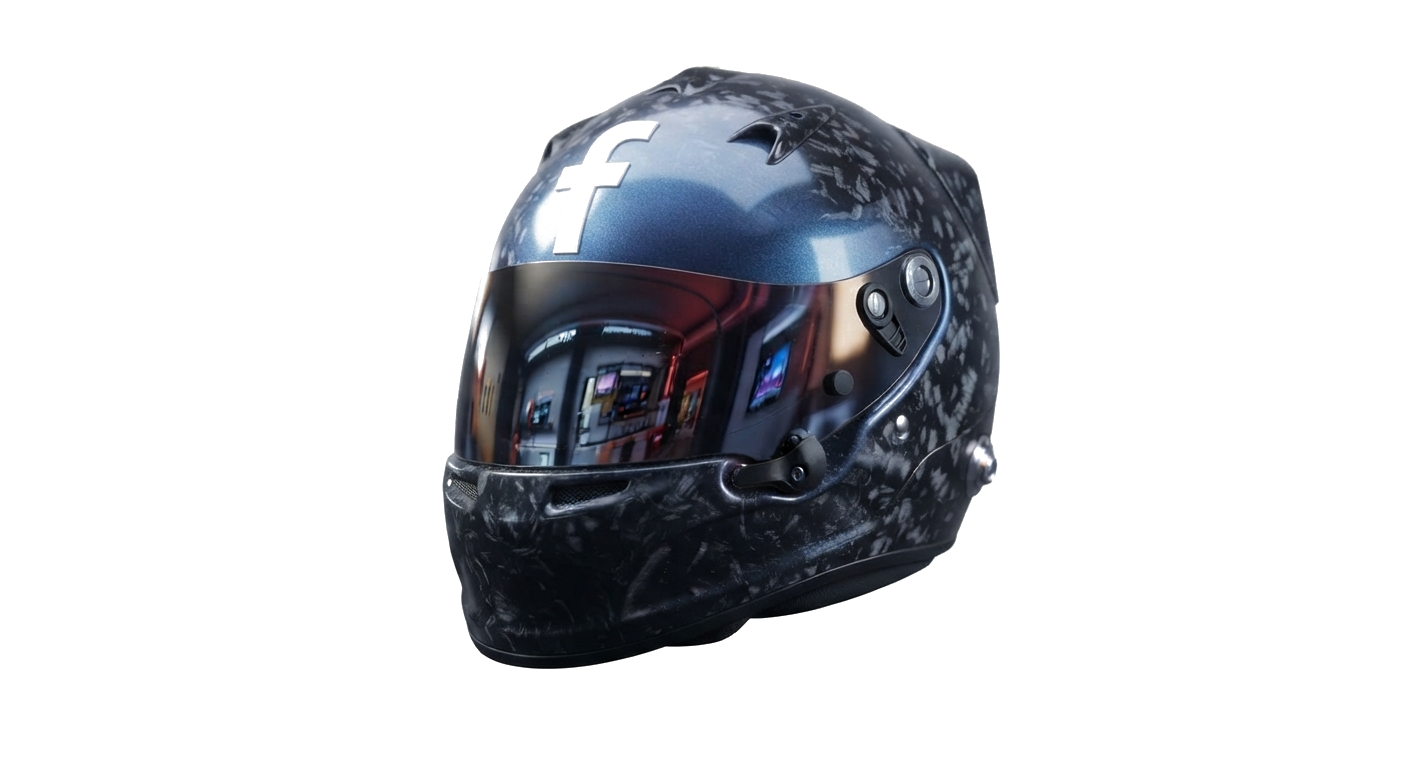
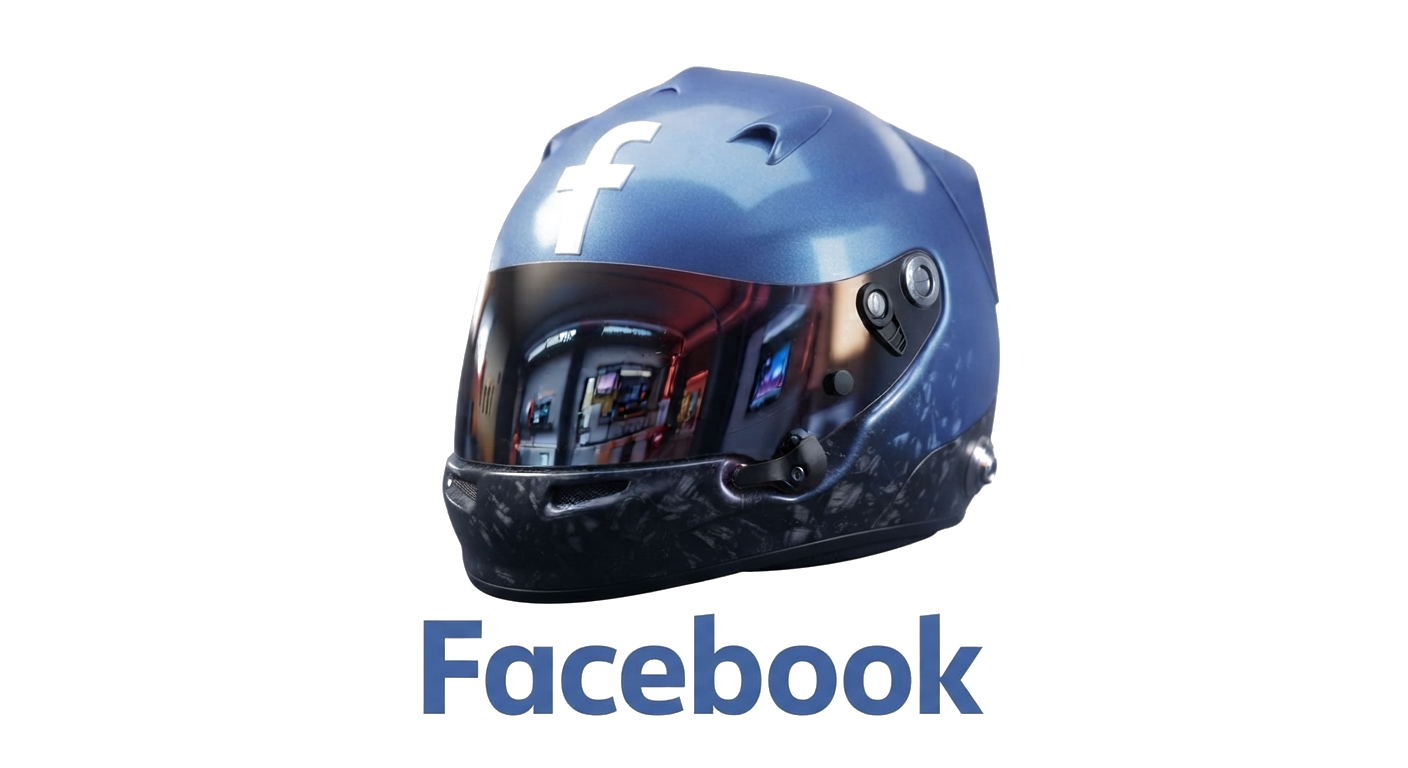
fix: capacetes parados + alinhados horizontalmente + novas imagens
- Removida animação helmet-bounce (capacetes agora estão parados)
- align-items: center para alinhamento horizontal perfeito
- Novas imagens de capacetes (qualidade superior, fundo transparente):
  Instagram (roxo/rosa/laranja), Facebook (azul), TikTok (preto/ciano),
  YouTube (vermelho metálico)
- Fundo branco removido das novas imagens (threshold 235)
- Mantido hover: translateY(-4px) + scale(1.05) + glow colorido
- Mantido active: scale(0.97) — efeito de press
- bounceDelay removido do SOCIAL_LINKS e page.tsx

Changed region(s): [[0.2812, 0.0625, 0.7188, 0.9375], [0.3438, 0.5938, 0.375, 0.625]]

diff --git a/src/app/globals.css b/src/app/globals.css
@@ -486,30 +486,12 @@
    CAPACETE F1 CARD (rodapé — largura total)
    ========================================
    Cada capacete é um card vertical: imagem + nome da rede social.
-   Dispostos em linha horizontal, centralizados, com wrap em mobile.
-   Animação: cada capacete "pula" de forma aleatória (bounce com delay
-   diferente para cada um, criando efeito assíncrono).
+   Dispostos em linha horizontal, alinhados, parados (sem animação).
 */
-
-/* Animação de pulo — cada capacete usa um delay diferente */
-@keyframes helmet-bounce {
-  0%, 100% {
-    transform: translateY(0) rotate(0deg);
-  }
-  25% {
-    transform: translateY(-10px) rotate(-3deg);
-  }
-  50% {
-    transform: translateY(-4px) rotate(0deg);
-  }
-  75% {
-    transform: translateY(-8px) rotate(2deg);
-  }
-}
 
 .f1-helmets-row {
   display: flex;
-  align-items: flex-end;
+  align-items: center;
   justify-content: center;
   gap: 24px;
   flex-wrap: wrap;
@@ -526,18 +508,13 @@
   text-decoration: none;
   transition: transform 0.2s ease;
   flex-shrink: 0;
-  /* Animação de pulo — cada capacete tem delay próprio (setado via inline style) */
-  animation: helmet-bounce 2.5s ease-in-out infinite;
-  animation-delay: var(--bounce-delay, 0s);
 }
 
 .f1-helmet-card:hover {
-  animation-play-state: paused;
-  transform: translateY(-6px) scale(1.05);
+  transform: translateY(-4px) scale(1.05);
 }
 
 .f1-helmet-card:active {
-  animation-play-state: paused;
   transform: translateY(0) scale(0.97);
 }
 

diff --git a/src/app/page.tsx b/src/app/page.tsx
@@ -1157,17 +1157,14 @@ export default function LandingPage() {
               Siga o MeuCorre nas redes
             </p>
             <div className="f1-helmets-row mt-5">
-              {SOCIAL_LINKS.map(({ name, href, helmetImage, glowColor, brandColor, bounceDelay, label }) => (
+              {SOCIAL_LINKS.map(({ name, href, helmetImage, glowColor, brandColor, label }) => (
                 <a
                   key={name}
                   href={href}
                   target="_blank"
                   rel="noopener noreferrer"
                   className="f1-helmet-card"
-                  style={{
-                    ["--helmet-glow" as string]: glowColor,
-                    ["--bounce-delay" as string]: bounceDelay,
-                  }}
+                  style={{ ["--helmet-glow" as string]: glowColor }}
                   title={label}
                   aria-label={name}
                 >
